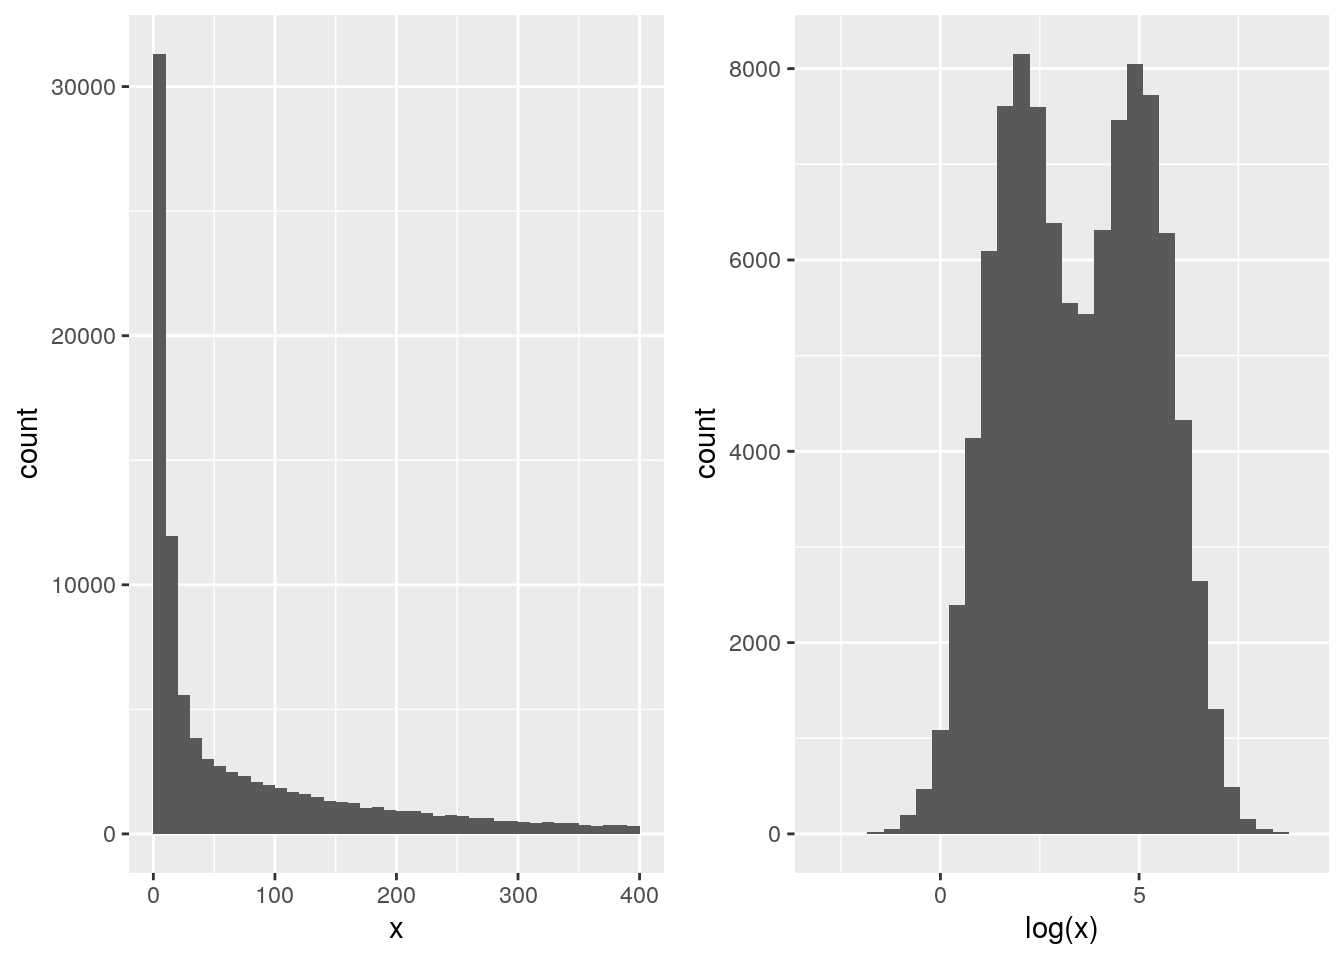
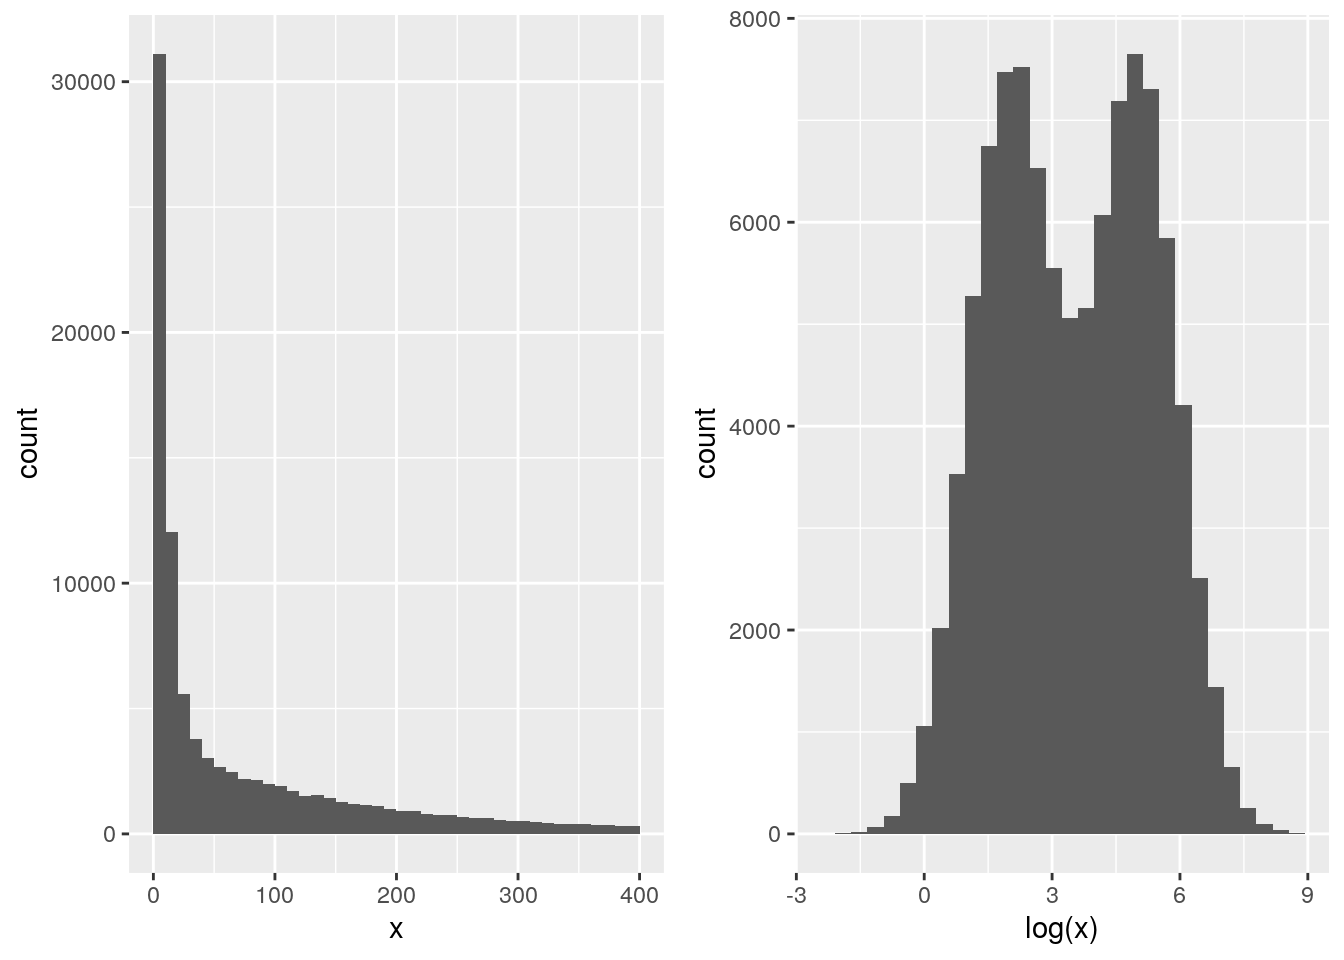
update book

diff --git a/docs/sec-biostrings.html b/docs/sec-biostrings.html
@@ -634,25 +634,26 @@ gc</code></pre></div>
 <div id="working-with-genomes" class="section level2">
 <h2>
 <span class="header-section-number">4.6</span> Working with genomes</h2>
-<p><code>BSgenome</code> packages inside Bioconductor contain whole genome sequences as distributed by ENSEMBL, NCBI and others. In this next example we will load the whole genome sequence for Homo sapiens from UCSC’s hg19 build, and calculate the GC content across chromosome 14.</p>
+<p><code>BSgenome</code> packages inside Bioconductor contain whole genome sequences as distributed by ENSEMBL, NCBI and others. In this next example we will load the whole genome sequence for Drosophila melanogaster from UCSC’s dm2 build, and calculate the GC content across chromosome 2L.</p>
 <div class="sourceCode"><pre class="sourceCode r"><code class="sourceCode r"><span class="kw">library</span>(<span class="st">"Biostrings"</span>)
-<span class="kw">library</span>(<span class="st">"BSgenome.Hsapiens.UCSC.hg19"</span>)
-chr14_range &lt;-<span class="st"> </span><span class="kw">GRanges</span>(<span class="st">"chr14"</span>, <span class="kw">IRanges</span>(<span class="dv">1</span>, <span class="kw">seqlengths</span>(Hsapiens)[<span class="st">"chr14"</span>]))
-chr14_range</code></pre></div>
+<span class="kw">library</span>(<span class="st">"BSgenome.Dmelanogaster.UCSC.dm2"</span>)
+
+chr2L_range &lt;-<span class="st"> </span><span class="kw">GRanges</span>(<span class="st">"chr2L"</span>, <span class="kw">IRanges</span>(<span class="dv">1</span>, <span class="kw">seqlengths</span>(Dmelanogaster)[<span class="st">"chr2L"</span>]))
+chr2L_range</code></pre></div>
 <pre><code>## GRanges object with 1 range and 0 metadata columns:
-##       seqnames      ranges strand
-##          &lt;Rle&gt;   &lt;IRanges&gt;  &lt;Rle&gt;
-##   [1]    chr14 1-107349540      *
+##       seqnames     ranges strand
+##          &lt;Rle&gt;  &lt;IRanges&gt;  &lt;Rle&gt;
+##   [1]    chr2L 1-22407834      *
 ##   -------
 ##   seqinfo: 1 sequence from an unspecified genome; no seqlengths</code></pre>
-<div class="sourceCode"><pre class="sourceCode r"><code class="sourceCode r">chr14_dna &lt;-<span class="st"> </span><span class="kw">getSeq</span>(Hsapiens, chr14_range)
-chr14_dna</code></pre></div>
+<div class="sourceCode"><pre class="sourceCode r"><code class="sourceCode r">chr2L_dna &lt;-<span class="st"> </span><span class="kw">getSeq</span>(Dmelanogaster, chr2L_range)
+chr2L_dna</code></pre></div>
 <pre><code>##   A DNAStringSet instance of length 1
-##         width seq
-## [1] 107349540 NNNNNNNNNNNNNNNNNNNNNNNNNNNNN...NNNNNNNNNNNNNNNNNNNNNNNNNNNNN</code></pre>
-<div class="sourceCode"><pre class="sourceCode r"><code class="sourceCode r"><span class="kw">letterFrequency</span>(chr14_dna, <span class="st">"GC"</span>, <span class="dt">as.prob =</span> <span class="ot">TRUE</span>)</code></pre></div>
-<pre><code>##           G|C
-## [1,] 0.336276</code></pre>
+##        width seq
+## [1] 22407834 CGACAATGCACGACAGAGGAAGCAGAACAG...GTTTCGAGTTAGTTGAAGGTGAGGGTGCT</code></pre>
+<div class="sourceCode"><pre class="sourceCode r"><code class="sourceCode r"><span class="kw">letterFrequency</span>(chr2L_dna, <span class="st">"GC"</span>, <span class="dt">as.prob =</span> <span class="ot">TRUE</span>)</code></pre></div>
+<pre><code>##            G|C
+## [1,] 0.4190165</code></pre>
 <div class="question">
 <p class="question-begin">
 ► Question
@@ -669,12 +670,12 @@ chr14_dna</code></pre></div>
 ► Solution<span id="sol-start-23" class="fa fa-plus-square solution-icon clickable" onclick="toggle_visibility('sol-body-23', 'sol-start-23')"></span>
 </p>
 <div id="sol-body-23" class="solution-body" style="display: none;">
-<div class="sourceCode"><pre class="sourceCode r"><code class="sourceCode r"><span class="kw">letterFrequency</span>(chr14_dna, <span class="kw">c</span>(<span class="st">"A"</span>, <span class="st">"G"</span>, <span class="st">"C"</span>, <span class="st">"T"</span>))</code></pre></div>
-<pre><code>##             A        G        C        T
-## [1,] 25992966 18071947 18027132 26197495</code></pre>
-<div class="sourceCode"><pre class="sourceCode r"><code class="sourceCode r"><span class="kw">letterFrequency</span>(chr14_dna, <span class="kw">c</span>(<span class="st">"A"</span>, <span class="st">"G"</span>, <span class="st">"C"</span>, <span class="st">"T"</span>), <span class="dt">as.prob =</span> <span class="ot">TRUE</span>)</code></pre></div>
+<div class="sourceCode"><pre class="sourceCode r"><code class="sourceCode r"><span class="kw">letterFrequency</span>(chr2L_dna, <span class="kw">c</span>(<span class="st">"A"</span>, <span class="st">"G"</span>, <span class="st">"C"</span>, <span class="st">"T"</span>))</code></pre></div>
+<pre><code>##            A       G       C       T
+## [1,] 6512712 4697776 4691476 6505770</code></pre>
+<div class="sourceCode"><pre class="sourceCode r"><code class="sourceCode r"><span class="kw">letterFrequency</span>(chr2L_dna, <span class="kw">c</span>(<span class="st">"A"</span>, <span class="st">"G"</span>, <span class="st">"C"</span>, <span class="st">"T"</span>), <span class="dt">as.prob =</span> <span class="ot">TRUE</span>)</code></pre></div>
 <pre><code>##              A         G         C         T
-## [1,] 0.2421339 0.1683468 0.1679293 0.2440392</code></pre>
+## [1,] 0.2906444 0.2096488 0.2093677 0.2903346</code></pre>
 <p class="solution-end">
 <span class="fa fa-square-o solution-icon"></span>
 </p>
@@ -689,7 +690,7 @@ chr14_dna</code></pre></div>
 ► Question
 </p>
 <div class="question-body">
-<p>Focusing on the region from base 100 million to 101 million along chromosome 14, calculate the GC content across a sliding window of 1000 nucleotides (you can use the <code>letterFrequencyInSlidingView</code> functionn) and visualise it (see an example below). On that plot, show the mean GC content and highlight the regions that have a GC content &gt; 0.7 and &lt; 0.3.</p>
+<p>Focusing on the region from base 10 million to 11 million along chromosome 2L, calculate the GC content across a sliding window of 5000 nucleotides (you can use the <code>letterFrequencyInSlidingView</code> functionn) and visualise it (see an example below). On that plot, show the mean GC content and highlight the regions that have a GC content &gt; 0.5 and &lt; 0.35.</p>
 <p class="question-end">
 <span class="fa fa-square-o solution-icon"></span>
 </p>
@@ -698,9 +699,9 @@ chr14_dna</code></pre></div>
 <div class="figure">
 <span id="fig:unnamed-chunk-19"></span>
 <p class="caption marginnote shownote">
-Figure 4.1: GC content for chomosome 14 (100 - 101 Mb)
+Figure 4.1: GC content for chomosome 2L (10 - 11 Mb)
 </p>
-<img src="WSBIM1322_files/figure-html/unnamed-chunk-19-1.png" alt="GC content for chomosome 14 (100 - 101 Mb)" width="672">
+<img src="WSBIM1322_files/figure-html/unnamed-chunk-19-1.png" alt="GC content for chomosome 2L (10 - 11 Mb)" width="672">
 </div>
 <div class="question">
 <p class="question-begin">

diff --git a/docs/sec-si.html b/docs/sec-si.html
@@ -157,26 +157,45 @@ code > span.in { color: #60a0b0; font-weight: bold; font-style: italic; } /* Inf
 ## [8] methods   base     
 ## 
 ## other attached packages:
-##  [1] MSnbase_2.10.1                    ProtGenerics_1.16.0              
-##  [3] mzR_2.18.1                        Rcpp_1.0.2                       
-##  [5] BSgenome.Hsapiens.UCSC.hg19_1.4.0 BSgenome_1.52.0                  
-##  [7] rtracklayer_1.44.4                Biostrings_2.52.0                
-##  [9] XVector_0.24.0                    rWSBIM1207_0.1.9                 
-## [11] airway_1.4.0                      SummarizedExperiment_1.14.1      
-## [13] DelayedArray_0.10.0               BiocParallel_1.18.1              
-## [15] matrixStats_0.55.0                Biobase_2.44.0                   
-## [17] GenomicRanges_1.36.1              GenomeInfoDb_1.20.0              
-## [19] IRanges_2.18.3                    S4Vectors_0.22.1                 
-## [21] BiocGenerics_0.30.0               BiocStyle_2.12.0                 
-## [23] patchwork_0.0.1                   ggbeeswarm_0.6.0                 
-## [25] plotly_4.9.0                      Hmisc_4.2-0                      
-## [27] Formula_1.2-3                     survival_2.44-1.1                
-## [29] lattice_0.20-38                   forcats_0.4.0                    
-## [31] stringr_1.4.0                     dplyr_0.8.3                      
-## [33] purrr_0.3.3                       readr_1.3.1                      
-## [35] tidyr_1.0.0                       tibble_2.1.3                     
-## [37] ggplot2_3.2.1                     tidyverse_1.2.1                  
-## [39] rWSBIM1322_0.1.6                 
+##  [1] MSnbase_2.10.1                       
+##  [2] ProtGenerics_1.16.0                  
+##  [3] mzR_2.18.1                           
+##  [4] Rcpp_1.0.2                           
+##  [5] BSgenome.Dmelanogaster.UCSC.dm2_1.4.0
+##  [6] BSgenome_1.52.0                      
+##  [7] rtracklayer_1.44.4                   
+##  [8] Biostrings_2.52.0                    
+##  [9] XVector_0.24.0                       
+## [10] rWSBIM1207_0.1.9                     
+## [11] airway_1.4.0                         
+## [12] SummarizedExperiment_1.14.1          
+## [13] DelayedArray_0.10.0                  
+## [14] BiocParallel_1.18.1                  
+## [15] matrixStats_0.55.0                   
+## [16] Biobase_2.44.0                       
+## [17] GenomicRanges_1.36.1                 
+## [18] GenomeInfoDb_1.20.0                  
+## [19] IRanges_2.18.3                       
+## [20] S4Vectors_0.22.1                     
+## [21] BiocGenerics_0.30.0                  
+## [22] BiocStyle_2.12.0                     
+## [23] patchwork_0.0.1                      
+## [24] ggbeeswarm_0.6.0                     
+## [25] plotly_4.9.0                         
+## [26] Hmisc_4.2-0                          
+## [27] Formula_1.2-3                        
+## [28] survival_2.44-1.1                    
+## [29] lattice_0.20-38                      
+## [30] forcats_0.4.0                        
+## [31] stringr_1.4.0                        
+## [32] dplyr_0.8.3                          
+## [33] purrr_0.3.3                          
+## [34] readr_1.3.1                          
+## [35] tidyr_1.0.0                          
+## [36] tibble_2.1.3                         
+## [37] ggplot2_3.2.1                        
+## [38] tidyverse_1.2.1                      
+## [39] rWSBIM1322_0.1.6                     
 ## 
 ## loaded via a namespace (and not attached):
 ##  [1] readxl_1.3.1             backports_1.1.5         
@@ -235,7 +254,7 @@ code > span.in { color: #60a0b0; font-weight: bold; font-style: italic; } /* Inf
 <p>To install all necessary packages to run all the code, please execute the following code:</p>
 <pre><code>pkgs &lt;- c("airway", "base", "Biobase", "BiocGenerics",
           "BiocParallel", "BiocStyle", "Biostrings",
-          "BSgenome.Hsapiens.UCSC.hg19", "BSgenome", "datasets",
+          "BSgenome.Dmelanogaster.UCSC.dm2", "BSgenome", "datasets",
           "DelayedArray", "dplyr", "forcats", "Formula", "GenomeInfoDb",
           "GenomicRanges", "ggbeeswarm", "ggplot2", "graphics", "grDevices",
           "Hmisc", "IRanges", "lattice", "matrixStats", "methods",

diff --git a/docs/sec-vis.html b/docs/sec-vis.html
@@ -720,7 +720,7 @@ p1 &lt;-<span class="st">  </span><span class="kw">ggplot</span>(sim, <span clas
 p2 &lt;-<span class="st">  </span><span class="kw">ggplot</span>(sim, <span class="kw">aes</span>(<span class="kw">log</span>(x))) <span class="op">+</span>
 <span class="st">    </span><span class="kw">geom_histogram</span>(<span class="dt">bins =</span> <span class="dv">30</span>)
 p1 <span class="op">+</span><span class="st"> </span>p2</code></pre></div>
-<pre><code>## Warning: Removed 8001 rows containing non-finite values (stat_bin).</code></pre>
+<pre><code>## Warning: Removed 8025 rows containing non-finite values (stat_bin).</code></pre>
 <div class="figure">
 <span id="fig:sim"></span>
 <p class="caption marginnote shownote">
